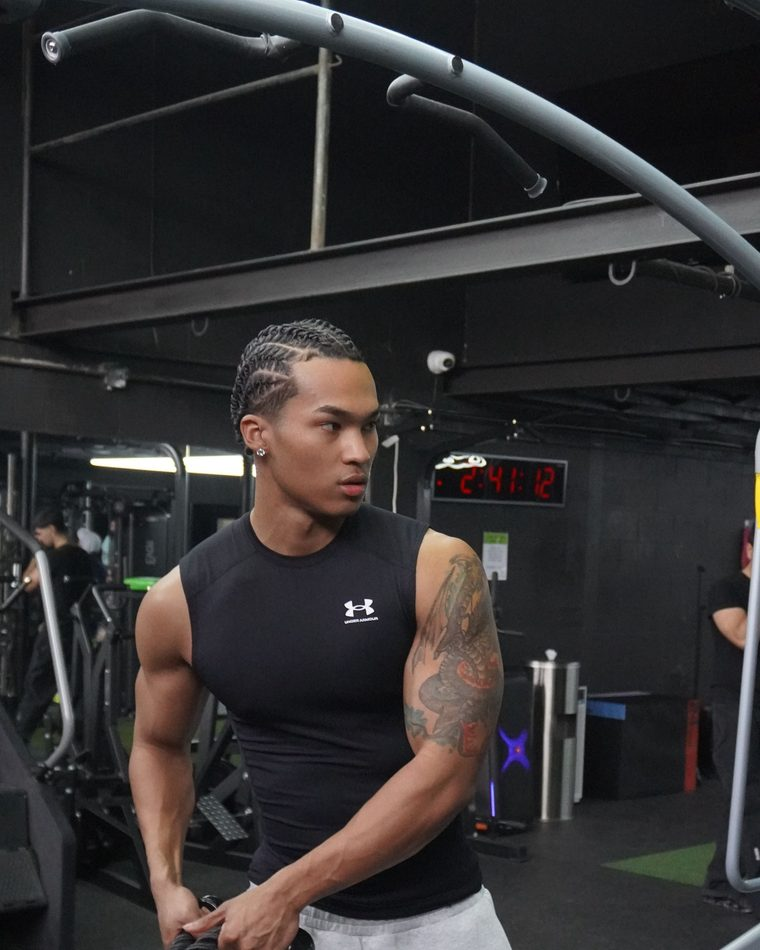
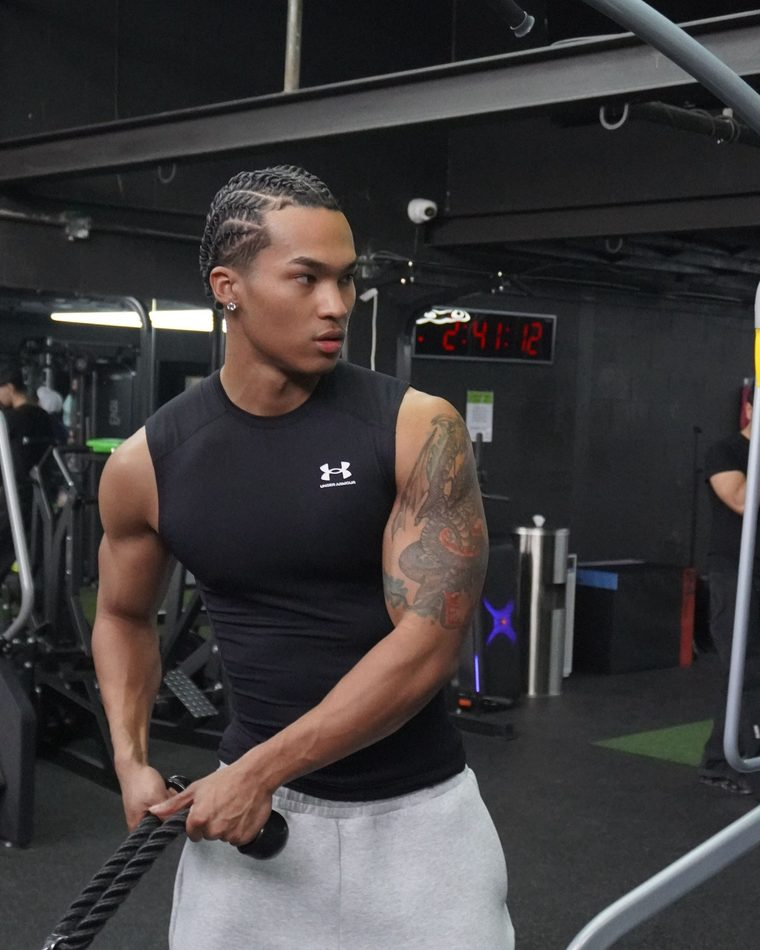
Reorder bio rotation (gym cable shot leads, white-tank editorial second); reframe leading shot lower + left

diff --git a/src/lib/content.ts b/src/lib/content.ts
@@ -84,11 +84,11 @@ export const oneLiner = {
   cta: "Apply Here",
   // Rotating founder photos (brand work + PT). Cycle in the photo slot.
   images: [
-    "/bio/gym-1.jpg",
+    "/bio/gym-2.jpg",
     "/bio/modelling.jpg",
+    "/bio/gym-1.jpg",
     "/bio/northface.jpg",
     "/bio/nike.jpg",
-    "/bio/gym-2.jpg",
     "/bio/northface-billboard.jpg",
     "/bio/model-2.jpg",
   ],